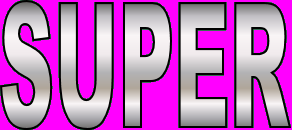
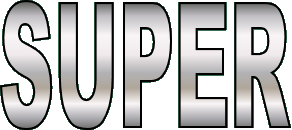
Some work

diff --git a/Game/menu.cpp b/Game/menu.cpp
@@ -3,6 +3,13 @@
 
 void Menu::Begin()
 {
+	imgSuper = al_load_bitmap( "resources/super.png" );
+	imgJumpKick = al_load_bitmap( "resources/jumpkick.png" );
+	imgTurbo = new SpriteSheet( "resources/turbo.png", 132, 30 );
+
+	fntTitle = al_load_font( "resources/titlefont.ttf", 24, 0 );
+
+	menuTime = 0;
 }
 
 void Menu::Pause()
@@ -15,18 +22,70 @@ void Menu::Resume()
 
 void Menu::Finish()
 {
+	al_destroy_bitmap( imgSuper );
+	al_destroy_bitmap( imgJumpKick );
+	delete imgTurbo;
+
+	al_destroy_font( fntTitle );
 }
 
 void Menu::EventOccurred(Event *e)
 {
+	if( e->Type == EVENT_KEY_DOWN )
+	{
+		if( menuTime < 270 )
+		{
+			menuTime = 270;
+		}
+
+		if( e->Data.Keyboard.KeyCode == ALLEGRO_KEY_ESCAPE )
+		{
+			FRAMEWORK->ShutdownFramework();
+			return;
+		}
+	}
 }
 
 void Menu::Update()
 {
+	menuTime++;
 }
 
 void Menu::Render()
 {
+	al_clear_to_color( al_map_rgb( 0, 0, 0 ) );
+
+
+	if( menuTime > 73 )
+	{
+		al_draw_filled_rectangle( 0, 35, DISPLAY->GetWidth(), 65 + al_get_bitmap_height( imgSuper ), al_map_rgb( 36, 64, 36 ) );
+		al_draw_bitmap( imgSuper, (DISPLAY->GetWidth() / 2) - (al_get_bitmap_width(imgSuper) / 2), 50, 0 );
+	} else if( menuTime > 10 ) {
+		al_draw_filled_rectangle( 0, 35, DISPLAY->GetWidth(), 65 + al_get_bitmap_height( imgSuper ), al_map_rgb( (menuTime - 10) / 2, (menuTime - 10), (menuTime - 10) / 2 ) );
+		al_draw_tinted_bitmap( imgSuper, al_map_rgba( 255, 255, 255, (menuTime - 10) * 4 ), (DISPLAY->GetWidth() / 2) - (al_get_bitmap_width(imgSuper) / 2), 50, 0 );
+	}
+
+	if( menuTime > 220 )
+	{
+		al_draw_bitmap( imgJumpKick, (DISPLAY->GetWidth() / 2) - (al_get_bitmap_width(imgJumpKick) / 2), 50, 0 );
+	}
+
+	if( menuTime > 260 )
+	{
+		imgTurbo->DrawSprite( 0, (DISPLAY->GetWidth() / 2) + (al_get_bitmap_width(imgJumpKick) / 2) - imgTurbo->GetFrame(0)->Width, 30 + al_get_bitmap_height( imgSuper ) );
+
+		if( (menuTime % 800) >= 300 && (menuTime % 800) <= 328 )
+		{
+			int overlaypos = 28 - ((menuTime % 800) - 300);
+			imgTurbo->DrawSpritePortion( 1, (DISPLAY->GetWidth() / 2) + (al_get_bitmap_width(imgJumpKick) / 2) - imgTurbo->GetFrame(0)->Width, 30 + al_get_bitmap_height( imgSuper ) + overlaypos, 0, overlaypos, 132, 3 );
+		}
+
+		al_draw_text( fntTitle, al_map_rgb( 255, 255, 0 ), 10, 270, 0, "Arcade" );
+		al_draw_text( fntTitle, al_map_rgb( 128, 128, 128 ), 10, 300, 0, "Network" );
+		al_draw_text( fntTitle, al_map_rgb( 255, 255, 255 ), 10, 330, 0, "Quit" );
+
+	}
+
 }
 
 bool Menu::IsTransition()

diff --git a/Framework/Display/spritesheet.cpp b/Framework/Display/spritesheet.cpp
@@ -40,6 +40,17 @@ int SpriteSheet::AddSprite( int FrameX, int FrameY, int FrameWidth, int FrameHei
 	return frames.size() - 1;
 }
 
+void SpriteSheet::DrawSprite( int FrameNumber, int ScreenX, int ScreenY )
+{
+	if( FrameNumber < 0 || FrameNumber >= (int)frames.size() )
+	{
+		return;
+	}
+
+	SpriteSheetRegion* r = frames.at( FrameNumber );
+	al_draw_bitmap_region( sheet, r->X, r->Y, r->Width, r->Height, ScreenX, ScreenY, 0 );
+}
+
 void SpriteSheet::DrawSprite( int FrameNumber, int ScreenX, int ScreenY, float ScaleX, float ScaleY, Angle* Rotation )
 {
 	if( FrameNumber < 0 || FrameNumber >= (int)frames.size() )
@@ -60,6 +71,17 @@ void SpriteSheet::DrawSprite( int FrameNumber, int ScreenX, int ScreenY, float S
 			al_draw_tinted_scaled_rotated_bitmap_region( sheet, r->X, r->Y, r->Width, r->Height, al_map_rgba(255, 255, 255, 255), r->Width / 2, r->Height / 2, ScreenX + ((r->Width * ScaleX) / 2), ScreenY + ((r->Height * ScaleY) / 2), ScaleX, ScaleY, Rotation->ToRadians(), 0 );
 		}
 	}
+}
+
+void SpriteSheet::DrawSpritePortion( int FrameNumber, int ScreenX, int ScreenY, int FrameX, int FrameY, int Width, int Height )
+{
+	if( FrameNumber < 0 || FrameNumber >= (int)frames.size() )
+	{
+		return;
+	}
+
+	SpriteSheetRegion* r = frames.at( FrameNumber );
+	al_draw_bitmap_region( sheet, r->X + FrameX, r->Y + FrameY, Width, Height, ScreenX, ScreenY, 0 );
 }
 
 SpriteSheetRegion* SpriteSheet::GetFrame( int FrameNumber )

diff --git a/Game/fighter.h b/Game/fighter.h
@@ -1,0 +1,43 @@
+
+#pragma once
+
+#include <string>
+#include "../Framework/Primitives/vector2.h"
+
+class Fighter
+{
+
+	public:
+		enum FighterStates
+		{
+			Idle ,
+			Jump,
+			Kick,
+			BackJump,
+			Super,
+			Ultra,
+			Victor,
+			Loser
+		};
+
+		void Initialise( std::string Config );
+
+		void CharSelect_RenderProfileIcon( int ScreenX, int ScreenY );
+		void CharSelect_RenderName( int ScreenX, int ScreenY );
+
+		void Fighter_Update();
+		void Fighter_SetState( int NewState );
+
+		Vector2* Fighter_GetPosition();
+		void Fighter_SetPosition( float X, float Y );
+		void Fighter_SetPosition( Vector2* NewPosition );
+		void Fighter_Render( int ScreenOffsetX, int ScreenOffsetY );
+
+		bool Fighter_IsFacingLeft();
+		void Fighter_SetFacing( bool FacingLeft );
+
+		void Fighter_JumpPressed();
+		void Fighter_KickPressed();
+		void Fighter_SuperPressed();
+
+};

diff --git a/Game/fighter.cpp b/Game/fighter.cpp
@@ -1,0 +1,60 @@
+
+#include "fighter.h"
+
+void Fighter::Initialise( std::string Config )
+{
+}
+
+void Fighter::CharSelect_RenderProfileIcon( int ScreenX, int ScreenY )
+{
+}
+
+void Fighter::CharSelect_RenderName( int ScreenX, int ScreenY )
+{
+}
+
+void Fighter::Fighter_Update()
+{
+}
+
+void Fighter::Fighter_SetState( int NewState )
+{
+}
+
+
+Vector2* Fighter_GetPosition()
+{
+}
+
+void Fighter::Fighter_SetPosition( float X, float Y )
+{
+}
+
+void Fighter::Fighter_SetPosition( Vector2* NewPosition )
+{
+}
+
+void Fighter::Fighter_Render( int ScreenOffsetX, int ScreenOffsetY )
+{
+}
+
+bool Fighter_IsFacingLeft()
+{
+}
+
+void Fighter::Fighter_SetFacing( bool FacingLeft )
+{
+}
+
+void Fighter::Fighter_JumpPressed()
+{
+}
+
+void Fighter::Fighter_KickPressed()
+{
+}
+
+void Fighter::Fighter_SuperPressed()
+{
+}
+

diff --git a/Framework/Display/spritesheet.h b/Framework/Display/spritesheet.h
@@ -28,7 +28,11 @@ class SpriteSheet
 		ALLEGRO_BITMAP* GetSheet();
 
 		int AddSprite( int FrameX, int FrameY, int FrameWidth, int FrameHeight );
+		void DrawSprite( int FrameNumber, int ScreenX, int ScreenY );
 		void DrawSprite( int FrameNumber, int ScreenX, int ScreenY, float ScaleX, float ScaleY, Angle* Rotation );
+
+		void DrawSpritePortion( int FrameNumber, int ScreenX, int ScreenY, int FrameX, int FrameY, int Width, int Height );
+
 		SpriteSheetRegion* GetFrame( int FrameNumber );
 
 };

diff --git a/Game/boot.cpp b/Game/boot.cpp
@@ -3,6 +3,7 @@
 #include "../Framework/framework.h"
 #include "../Framework/Display/display.h"
 #include "../Framework/Network/download.h"
+#include "menu.h"
 
 void BootUp::Begin()
 {
@@ -72,7 +73,7 @@ void BootUp::Render()
 void BootUp::StartGame()
 {
 	delete Framework::System->ProgramStages->Pop();
-	// Framework::System->ProgramStages->Push( new MainMenu() );
+	Framework::System->ProgramStages->Push( new Menu() );
 }
 
 bool BootUp::IsTransition()

diff --git a/Game/menu.h b/Game/menu.h
@@ -7,6 +7,13 @@
 class Menu : public Stage
 {
 	private:
+		ALLEGRO_BITMAP* imgSuper;
+		ALLEGRO_BITMAP* imgJumpKick;
+		SpriteSheet* imgTurbo;
+
+		ALLEGRO_FONT* fntTitle;
+
+		int menuTime;
 
   public:
     // Stage control

diff --git a/Framework/main.cpp b/Framework/main.cpp
@@ -3,7 +3,7 @@
 
 int main ( int argc, char* argv[] )
 {
-  Framework* fw = new Framework( 800, 480, 100, false );
+  Framework* fw = new Framework( 800, 480, 60, false );
   fw->Run();
   delete fw;
   return 0;
